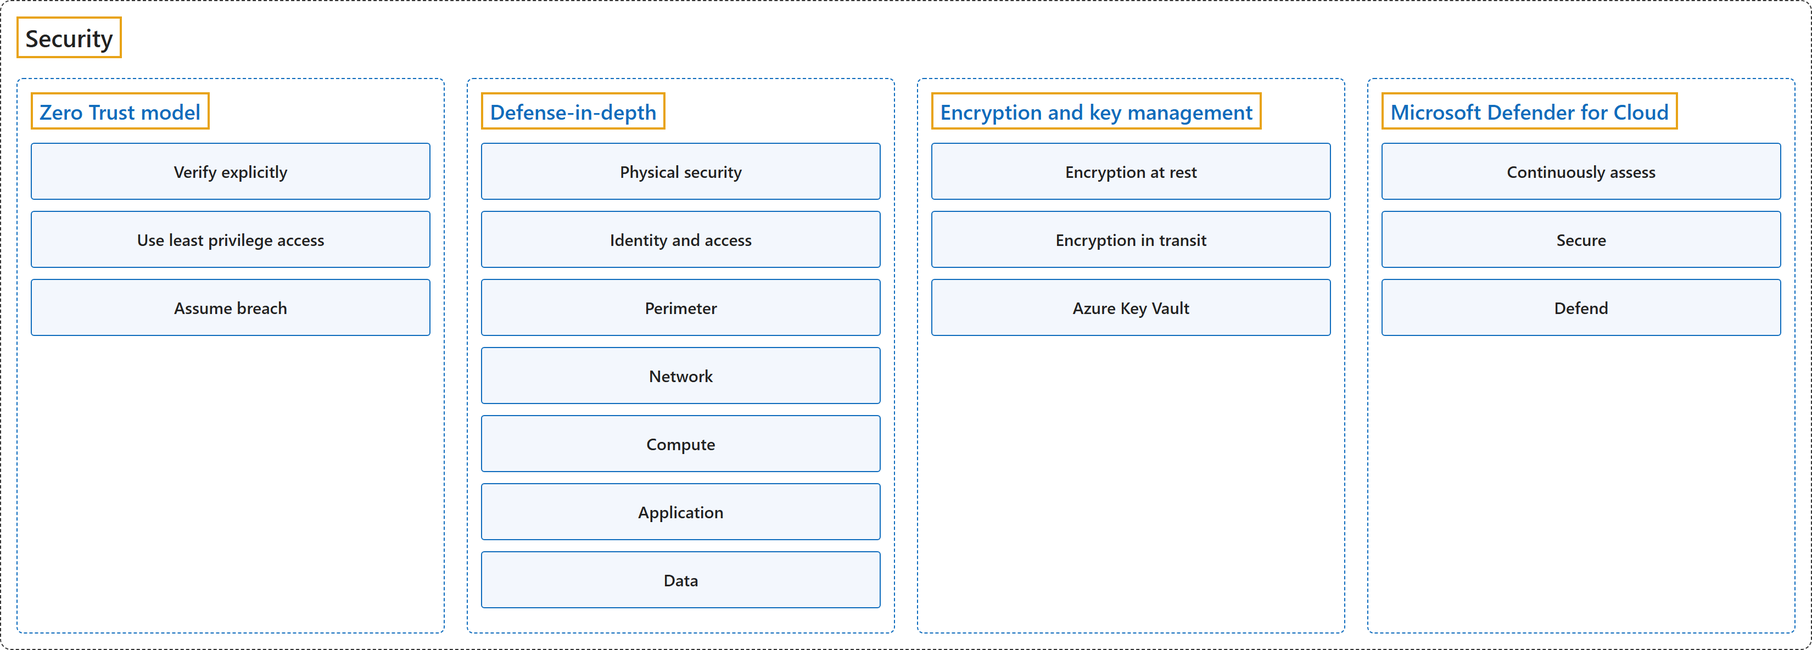
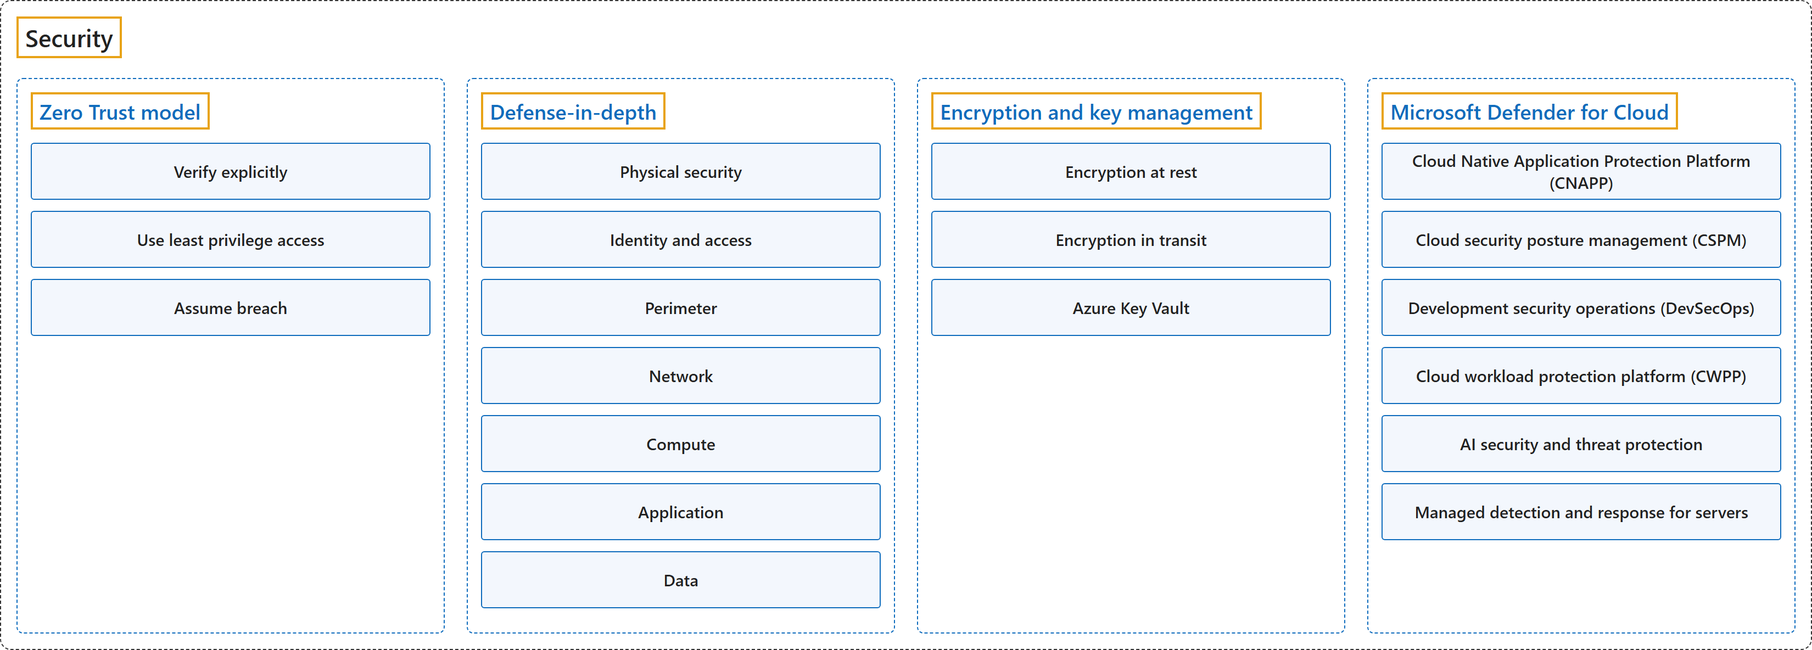
feat(azure): 18.1-18.4 Security; 18.4 follows the Defender for Cloud product overview's six capability areas

diff --git a/figures/cloud/azure/security/microsoft-defender-for-cloud.html b/figures/cloud/azure/security/microsoft-defender-for-cloud.html
@@ -1,0 +1,28 @@
+<!doctype html>
+<html><head><meta charset="utf-8">
+<style>
+  body { margin: 0; background: #fff; font-family: "Segoe UI", sans-serif; }
+  .frame { display: inline-block; margin: 2px; padding: 14px 14px 14px; border: 1.5px dashed #333; border-radius: 10px; }
+  .title { display: inline-block; border: 2px solid #e8a317; padding: 2px 6px; font-size: 22px; font-weight: 600; color: #222; margin-bottom: 18px; }
+  .row { display: flex; gap: 14px; align-items: stretch; }
+  .frame > .col { width: 330px; gap: 0; }
+  .col { display: flex; flex-direction: column; gap: 14px; }
+  .col .group { flex: 1 0 auto; }
+  .group { min-width: 330px; border: 1.5px dashed #0f6cbd; border-radius: 6px; padding: 12px; box-sizing: border-box; }
+  .group .title { white-space: nowrap; color: #0f6cbd; font-size: 19px; margin-bottom: 12px; }
+  .item { border: 2px solid #e8a317; background: #f3f7fd; border-radius: 3px; height: 34px; margin-bottom: 8px;
+          display: flex; align-items: center; justify-content: center; font-size: 14px; font-weight: 600; text-align: center; padding: 0 6px; color: #222; }
+</style></head>
+<body>
+<div class="frame" id="fig">
+  <div class="title">Microsoft Defender for Cloud</div>
+  <div class="col">
+    <div class="item">Cloud Native Application Protection Platform (CNAPP)</div>
+    <div class="item">Cloud security posture management (CSPM)</div>
+    <div class="item">Development security operations (DevSecOps)</div>
+    <div class="item">Cloud workload protection platform (CWPP)</div>
+    <div class="item">AI security and threat protection</div>
+    <div class="item">Managed detection and response for servers</div>
+  </div>
+</div>
+</body></html>

diff --git a/figures/cloud/azure/security/defense-in-depth.html b/figures/cloud/azure/security/defense-in-depth.html
@@ -1,0 +1,29 @@
+<!doctype html>
+<html><head><meta charset="utf-8">
+<style>
+  body { margin: 0; background: #fff; font-family: "Segoe UI", sans-serif; }
+  .frame { display: inline-block; margin: 2px; padding: 14px 14px 14px; border: 1.5px dashed #333; border-radius: 10px; }
+  .title { display: inline-block; border: 2px solid #e8a317; padding: 2px 6px; font-size: 22px; font-weight: 600; color: #222; margin-bottom: 18px; }
+  .row { display: flex; gap: 14px; align-items: stretch; }
+  .frame > .col { width: 330px; gap: 0; }
+  .col { display: flex; flex-direction: column; gap: 14px; }
+  .col .group { flex: 1 0 auto; }
+  .group { min-width: 330px; border: 1.5px dashed #0f6cbd; border-radius: 6px; padding: 12px; box-sizing: border-box; }
+  .group .title { white-space: nowrap; color: #0f6cbd; font-size: 19px; margin-bottom: 12px; }
+  .item { border: 2px solid #e8a317; background: #f3f7fd; border-radius: 3px; height: 34px; margin-bottom: 8px;
+          display: flex; align-items: center; justify-content: center; font-size: 14px; font-weight: 600; text-align: center; padding: 0 6px; color: #222; }
+</style></head>
+<body>
+<div class="frame" id="fig">
+  <div class="title">Defense-in-depth</div>
+  <div class="col">
+    <div class="item">Physical security</div>
+    <div class="item">Identity and access</div>
+    <div class="item">Perimeter</div>
+    <div class="item">Network</div>
+    <div class="item">Compute</div>
+    <div class="item">Application</div>
+    <div class="item">Data</div>
+  </div>
+</div>
+</body></html>

diff --git a/figures/cloud/azure/security/encryption-and-key-management.html b/figures/cloud/azure/security/encryption-and-key-management.html
@@ -1,0 +1,25 @@
+<!doctype html>
+<html><head><meta charset="utf-8">
+<style>
+  body { margin: 0; background: #fff; font-family: "Segoe UI", sans-serif; }
+  .frame { display: inline-block; margin: 2px; padding: 14px 14px 14px; border: 1.5px dashed #333; border-radius: 10px; }
+  .title { display: inline-block; border: 2px solid #e8a317; padding: 2px 6px; font-size: 22px; font-weight: 600; color: #222; margin-bottom: 18px; }
+  .row { display: flex; gap: 14px; align-items: stretch; }
+  .frame > .col { width: 330px; gap: 0; }
+  .col { display: flex; flex-direction: column; gap: 14px; }
+  .col .group { flex: 1 0 auto; }
+  .group { min-width: 330px; border: 1.5px dashed #0f6cbd; border-radius: 6px; padding: 12px; box-sizing: border-box; }
+  .group .title { white-space: nowrap; color: #0f6cbd; font-size: 19px; margin-bottom: 12px; }
+  .item { border: 2px solid #e8a317; background: #f3f7fd; border-radius: 3px; height: 34px; margin-bottom: 8px;
+          display: flex; align-items: center; justify-content: center; font-size: 14px; font-weight: 600; text-align: center; padding: 0 6px; color: #222; }
+</style></head>
+<body>
+<div class="frame" id="fig">
+  <div class="title">Encryption and key management</div>
+  <div class="col">
+    <div class="item">Encryption at rest</div>
+    <div class="item">Encryption in transit</div>
+    <div class="item">Azure Key Vault</div>
+  </div>
+</div>
+</body></html>

diff --git a/figures/cloud/azure/security/zero-trust-model.html b/figures/cloud/azure/security/zero-trust-model.html
@@ -1,0 +1,25 @@
+<!doctype html>
+<html><head><meta charset="utf-8">
+<style>
+  body { margin: 0; background: #fff; font-family: "Segoe UI", sans-serif; }
+  .frame { display: inline-block; margin: 2px; padding: 14px 14px 14px; border: 1.5px dashed #333; border-radius: 10px; }
+  .title { display: inline-block; border: 2px solid #e8a317; padding: 2px 6px; font-size: 22px; font-weight: 600; color: #222; margin-bottom: 18px; }
+  .row { display: flex; gap: 14px; align-items: stretch; }
+  .frame > .col { width: 330px; gap: 0; }
+  .col { display: flex; flex-direction: column; gap: 14px; }
+  .col .group { flex: 1 0 auto; }
+  .group { min-width: 330px; border: 1.5px dashed #0f6cbd; border-radius: 6px; padding: 12px; box-sizing: border-box; }
+  .group .title { white-space: nowrap; color: #0f6cbd; font-size: 19px; margin-bottom: 12px; }
+  .item { border: 2px solid #e8a317; background: #f3f7fd; border-radius: 3px; height: 34px; margin-bottom: 8px;
+          display: flex; align-items: center; justify-content: center; font-size: 14px; font-weight: 600; text-align: center; padding: 0 6px; color: #222; }
+</style></head>
+<body>
+<div class="frame" id="fig">
+  <div class="title">Zero Trust model</div>
+  <div class="col">
+    <div class="item">Verify explicitly</div>
+    <div class="item">Use least privilege access</div>
+    <div class="item">Assume breach</div>
+  </div>
+</div>
+</body></html>

diff --git a/figures/cloud/azure/security/security.html b/figures/cloud/azure/security/security.html
@@ -48,9 +48,12 @@
     <div class="col">
       <div class="group">
         <div class="title">Microsoft Defender for Cloud</div>
-        <div class="item">Continuously assess</div>
-        <div class="item">Secure</div>
-        <div class="item">Defend</div>
+        <div class="item">Cloud Native Application Protection Platform (CNAPP)</div>
+        <div class="item">Cloud security posture management (CSPM)</div>
+        <div class="item">Development security operations (DevSecOps)</div>
+        <div class="item">Cloud workload protection platform (CWPP)</div>
+        <div class="item">AI security and threat protection</div>
+        <div class="item">Managed detection and response for servers</div>
       </div>
     </div>
   </div>

diff --git a/docs/cloud/azure/security/microsoft-defender-for-cloud.md b/docs/cloud/azure/security/microsoft-defender-for-cloud.md
@@ -1,11 +1,26 @@
 ---
 title: "18.4 Microsoft Defender for Cloud"
-description: "Microsoft Azure, 18.4 Microsoft Defender for Cloud: Continuously assess, Secure, Defend."
-ms.date: 2026-10-24
+description: "Microsoft Azure, 18.4 Microsoft Defender for Cloud: Cloud Native Application Protection Platform (CNAPP), Cloud security posture management (CSPM), Development security operations (DevSecOps), Cloud workload protection platform (CWPP), AI security and threat protection, Managed detection and response for servers."
+ms.date: 2026-10-27
 ---
 
 # 18.4 Microsoft Defender for Cloud
 
-Sources: [AZ-900 unit: Describe Microsoft Defender for Cloud](https://learn.microsoft.com/en-us/training/modules/describe-azure-identity-access-security/9-describe-microsoft-defender-for-cloud).
+## Classification
 
-Not written yet.
+![Microsoft Defender for Cloud, its six capability areas in the order of its product overview: Cloud Native Application Protection Platform (CNAPP), Cloud security posture management (CSPM), Development security operations (DevSecOps), Cloud workload protection platform (CWPP), AI security and threat protection, Managed detection and response for servers.](media/microsoft-defender-for-cloud.png)
+
+## Glossary
+
+| Term | Definition | 中文翻译 | Source |
+|---|---|---|---|
+| **Cloud Native Application Protection Platform (CNAPP)**<br>云原生应用程序保护平台 (CNAPP) | "Microsoft Defender for Cloud is a Cloud Native Application Protection Platform (CNAPP), which is a **unified solution** that **combines multiple cloud security tools** to **protect applications across their entire lifecycle**." | Microsoft Defender for Cloud 是一个云原生应用程序保护平台 (CNAPP)，这是一种**统一的解决方案**，它**结合多种云安全工具**，**在应用程序的整个生命周期中保护应用程序**。 | [Microsoft, 2026, para. 1](https://learn.microsoft.com/en-us/azure/defender-for-cloud/defender-for-cloud-introduction#:~:text=which%20is%20a%20unified%20solution%20that%20combines%20multiple%20cloud%20security%20tools) |
+| **Cloud security posture management (CSPM)**<br>云安全态势管理 (CSPM) | (context) "The security of your cloud and on-premises resources **depends on proper configuration and deployment**. Defender for Cloud recommendations help you **secure your environment**." | （语境）云资源和本地资源的安全性**取决于正确的配置和部署**。Defender for Cloud 的建议帮助你**保护你的环境**。 | [Microsoft, 2026, "Cloud security posture management (CSPM)" section, para. 1](https://learn.microsoft.com/en-us/azure/defender-for-cloud/defender-for-cloud-introduction#:~:text=depends%20on%20proper%20configuration%20and%20deployment) |
+| **Development security operations (DevSecOps)**<br>开发安全运营 (DevSecOps) | (context) "Defender for Cloud **adds security to the start of development**. It helps you **secure code pipelines and environments**, and **monitor your security posture from one place**." | （语境）Defender for Cloud **把安全性加到开发的起点**。它帮助你**保护代码管道和环境**，并**在一个位置监视安全状况**。 | [Microsoft, 2026, "Development security operations (DevSecOps)" section, para. 1](https://learn.microsoft.com/en-us/azure/defender-for-cloud/defender-for-cloud-introduction#:~:text=adds%20security%20to%20the%20start%20of%20development) |
+| **Cloud workload protection platform (CWPP)**<br>云工作负载保护平台 (CWPP) | "Cloud workload protection platforms (CWPP) provide **workload-specific recommendations** to guide you to **the right security controls to protect your workloads**." | 云工作负载保护平台 (CWPP) 提供**针对特定工作负载的建议**，引导你找到**保护工作负载的正确安全控制措施**。 | [Microsoft, 2026, "Cloud workload protection platform (CWPP)" section, para. 1](https://learn.microsoft.com/en-us/azure/defender-for-cloud/defender-for-cloud-introduction#:~:text=provide%20workload-specific%20recommendations) |
+| **AI security and threat protection**<br>AI 安全和威胁防护 | (context) "Microsoft Defender for Cloud provides **AI security posture management and AI threat protection** to help you **secure your generative AI workloads across their entire lifecycle**." | （语境）Microsoft Defender for Cloud 提供 **AI 安全态势管理和 AI 威胁防护**，帮助你**在整个生命周期中保护生成式 AI 工作负载**。 | [Microsoft, 2026, "AI security and threat protection" section, para. 1](https://learn.microsoft.com/en-us/azure/defender-for-cloud/defender-for-cloud-introduction#:~:text=provides%20AI%20security%20posture%20management%20and%20AI%20threat%20protection) |
+| **Managed detection and response for servers**<br>服务器托管检测和响应 | "Microsoft Defender Experts for Servers is a **managed detection and response service** that **adds Microsoft analyst expertise** to your Defender for Servers deployment." | Microsoft Defender Experts for Servers 是一种**托管检测和响应服务**，它为你的 Defender for Servers 部署**增加 Microsoft 分析师的专业知识**。 | [Microsoft, 2026, "Managed detection and response for servers" section, para. 1](https://learn.microsoft.com/en-us/azure/defender-for-cloud/defender-for-cloud-introduction#:~:text=is%20a%20managed%20detection%20and%20response%20service) |
+
+## References
+
+- Microsoft. (2026, August 10). *What is Microsoft Defender for Cloud?* Microsoft Learn. https://learn.microsoft.com/en-us/azure/defender-for-cloud/defender-for-cloud-introduction

diff --git a/docs/cloud/azure/security/defense-in-depth.md b/docs/cloud/azure/security/defense-in-depth.md
@@ -1,11 +1,27 @@
 ---
 title: "18.2 Defense-in-depth"
 description: "Microsoft Azure, 18.2 Defense-in-depth: Physical security, Identity and access, Perimeter, Network, Compute, Application, Data."
-ms.date: 2026-10-24
+ms.date: 2026-10-27
 ---
 
 # 18.2 Defense-in-depth
 
-Sources: [AZ-900 unit: Describe defense-in-depth](https://learn.microsoft.com/en-us/training/modules/describe-azure-identity-access-security/8-describe-defense-depth).
+## Classification
 
-Not written yet.
+![Defense-in-depth, 7 terms: Physical security, Identity and access, Perimeter, Network, Compute, Application, Data.](media/defense-in-depth.png)
+
+## Glossary
+
+| Term | Definition | 中文翻译 | Source |
+|---|---|---|---|
+| **Physical security**<br>物理安全 | "The physical security layer is the **first line of defense** to **protect computing hardware in the datacenter**." | 物理安全层是**第一道防线**，用于**保护数据中心中的计算硬件**。 | [Microsoft, n.d., "Layers of defense-in-depth" section, list item 1](https://learn.microsoft.com/en-us/training/modules/describe-azure-identity-access-security/8-describe-defense-depth#:~:text=The%20physical%20security%20layer%20is%20the%20first%20line%20of%20defense) |
+| **Identity and access**<br>身份和访问 | "The identity and access layer **controls access to infrastructure and change control**." | 身份和访问层**控制对基础结构的访问以及变更控制**。 | [Microsoft, n.d., "Layers of defense-in-depth" section, list item 2](https://learn.microsoft.com/en-us/training/modules/describe-azure-identity-access-security/8-describe-defense-depth#:~:text=The%20identity%20and%20access%20layer%20controls%20access) |
+| **Perimeter**<br>外围 | "The perimeter layer uses **distributed denial of service (DDoS) protection** to **filter large-scale attacks** before they can cause a denial of service for users." | 外围层使用**分布式拒绝服务 (DDoS) 防护**，**过滤大规模攻击**，赶在它们对用户造成拒绝服务之前。 | [Microsoft, n.d., "Layers of defense-in-depth" section, list item 3](https://learn.microsoft.com/en-us/training/modules/describe-azure-identity-access-security/8-describe-defense-depth#:~:text=The%20perimeter%20layer%20uses%20distributed%20denial%20of%20service) |
+| **Network**<br>网络 | "The network layer **limits communication between resources** through **segmentation and access controls**." | 网络层**限制资源之间的通信**，手段是**分段和访问控制**。 | [Microsoft, n.d., "Layers of defense-in-depth" section, list item 4](https://learn.microsoft.com/en-us/training/modules/describe-azure-identity-access-security/8-describe-defense-depth#:~:text=The%20network%20layer%20limits%20communication%20between%20resources) |
+| **Compute**<br>计算 | "The compute layer **secures access to virtual machines**." | 计算层**保护对虚拟机的访问**。 | [Microsoft, n.d., "Layers of defense-in-depth" section, list item 5](https://learn.microsoft.com/en-us/training/modules/describe-azure-identity-access-security/8-describe-defense-depth#:~:text=The%20compute%20layer%20secures%20access%20to%20virtual%20machines) |
+| **Application**<br>应用程序 | "The application layer helps ensure that applications are **secure and free of security vulnerabilities**." | 应用程序层帮助确保应用程序**安全且没有安全漏洞**。 | [Microsoft, n.d., "Layers of defense-in-depth" section, list item 6](https://learn.microsoft.com/en-us/training/modules/describe-azure-identity-access-security/8-describe-defense-depth#:~:text=The%20application%20layer%20helps%20ensure%20that%20applications%20are%20secure) |
+| **Data**<br>数据 | "The data layer **controls access to operational and customer data** that you need to protect." | 数据层**控制对需要保护的运营数据和客户数据的访问**。 | [Microsoft, n.d., "Layers of defense-in-depth" section, list item 7](https://learn.microsoft.com/en-us/training/modules/describe-azure-identity-access-security/8-describe-defense-depth#:~:text=The%20data%20layer%20controls%20access%20to%20operational%20and%20customer%20data) |
+
+## References
+
+- Microsoft. (n.d.). *Describe defense-in-depth* [Training module unit]. Microsoft Learn. Retrieved October 27, 2026, from https://learn.microsoft.com/en-us/training/modules/describe-azure-identity-access-security/8-describe-defense-depth

diff --git a/docs/cloud/azure/security/README.md b/docs/cloud/azure/security/README.md
@@ -6,9 +6,11 @@ Follows `../README.md`. Figure on `index.md`: classification (see `../README.md`
 
 | No. | File | Title (group name in the figure) | Sources | Allowed sections (the groups of the sub-page figure, in figure order) |
 |---|---|---|---|---|
-| 18.1 | `zero-trust-model.md` | Zero Trust model | [AZ-900 unit: Describe Zero Trust model](https://learn.microsoft.com/en-us/training/modules/describe-azure-identity-access-security/7-describe-zero-trust-model) | 18.1.1 Verify explicitly, 18.1.2 Use least privilege access, 18.1.3 Assume breach |
+| 18.1 | `zero-trust-model.md` | Zero Trust model | [What is Zero Trust?](https://learn.microsoft.com/en-us/security/zero-trust/zero-trust-overview) | 18.1.1 Verify explicitly, 18.1.2 Use least privilege access, 18.1.3 Assume breach |
 | 18.2 | `defense-in-depth.md` | Defense-in-depth | [AZ-900 unit: Describe defense-in-depth](https://learn.microsoft.com/en-us/training/modules/describe-azure-identity-access-security/8-describe-defense-depth) | 18.2.1 Physical security, 18.2.2 Identity and access, 18.2.3 Perimeter, 18.2.4 Network, 18.2.5 Compute, 18.2.6 Application, 18.2.7 Data |
-| 18.3 | `encryption-and-key-management.md` | Encryption and key management | [AZ-900 unit: Describe encryption and key management in Azure](https://learn.microsoft.com/en-us/training/modules/describe-azure-identity-access-security/9a-describe-encryption-key-management) | 18.3.1 Encryption at rest, 18.3.2 Encryption in transit, 18.3.3 Azure Key Vault |
-| 18.4 | `microsoft-defender-for-cloud.md` | Microsoft Defender for Cloud | [AZ-900 unit: Describe Microsoft Defender for Cloud](https://learn.microsoft.com/en-us/training/modules/describe-azure-identity-access-security/9-describe-microsoft-defender-for-cloud) | 18.4.1 Continuously assess, 18.4.2 Secure, 18.4.3 Defend |
+| 18.3 | `encryption-and-key-management.md` | Encryption and key management | [Azure data encryption at rest](https://learn.microsoft.com/en-us/azure/security/fundamentals/encryption-atrest); [Azure encryption overview](https://learn.microsoft.com/en-us/azure/security/fundamentals/encryption-overview); [About Azure Key Vault](https://learn.microsoft.com/en-us/azure/key-vault/general/overview) | 18.3.1 Encryption at rest, 18.3.2 Encryption in transit, 18.3.3 Azure Key Vault |
+| 18.4 | `microsoft-defender-for-cloud.md` | Microsoft Defender for Cloud | [What is Microsoft Defender for Cloud?](https://learn.microsoft.com/en-us/azure/defender-for-cloud/defender-for-cloud-introduction) | 18.4.1 Cloud Native Application Protection Platform (CNAPP), 18.4.2 Cloud security posture management (CSPM), 18.4.3 Development security operations (DevSecOps), 18.4.4 Cloud workload protection platform (CWPP), 18.4.5 AI security and threat protection, 18.4.6 Managed detection and response for servers |
 
-Network security services (Azure Firewall, Web Application Firewall, DDoS Protection) are defined in `../networking/` (7.4); 18.2.3 Perimeter and 18.2.4 Network link there. Microsoft Sentinel (taught in the CST8913 CAF reading) is H3 inside 18.4.3 Defend, beside Defender for Cloud, as AZ-500 pairs them. Identity and access is 12. Identity.
+Network security services (Azure Firewall, Web Application Firewall, DDoS Protection) are defined in `../networking/` (7.4); 18.2.3 Perimeter and 18.2.4 Network link there. Identity and access is 12. Identity.
+
+Zero Trust and encryption rows quote the product documentation. The seven defense-in-depth layers are named only in the AZ-900 unit, so 18.2 quotes that unit. 18.4 follows the six capability areas of the Defender for Cloud product overview, not the AZ-900 pillars (2026-10-27).

diff --git a/docs/cloud/azure/security/encryption-and-key-management.md b/docs/cloud/azure/security/encryption-and-key-management.md
@@ -1,11 +1,25 @@
 ---
 title: "18.3 Encryption and key management"
 description: "Microsoft Azure, 18.3 Encryption and key management: Encryption at rest, Encryption in transit, Azure Key Vault."
-ms.date: 2026-10-24
+ms.date: 2026-10-27
 ---
 
 # 18.3 Encryption and key management
 
-Sources: [AZ-900 unit: Describe encryption and key management in Azure](https://learn.microsoft.com/en-us/training/modules/describe-azure-identity-access-security/9a-describe-encryption-key-management).
+## Classification
 
-Not written yet.
+![Encryption and key management, 3 terms: Encryption at rest, Encryption in transit, Azure Key Vault.](media/encryption-and-key-management.png)
+
+## Glossary
+
+| Term | Definition | 中文翻译 | Source |
+|---|---|---|---|
+| **Encryption at rest**<br>静态加密 | (context) "Encryption at rest is a **common security requirement**. Azure **encrypts data at rest by default** by using **platform-managed keys**." | （语境）静态加密是一项**常见的安全要求**。Azure **默认对静态数据进行加密**，使用的是**平台管理的密钥**。 | [Microsoft, 2026b, para. 2](https://learn.microsoft.com/en-us/azure/security/fundamentals/encryption-atrest#:~:text=Encryption%20at%20rest%20is%20a%20common%20security%20requirement) |
+| **Encryption in transit**<br>传输中加密 | (context) "Azure provides many mechanisms to help **keep data private** as it **moves from one location to another**." | （语境）Azure 提供许多机制，帮助**保持数据私密**，在数据**从一个位置移动到另一个位置**时。 | [Microsoft, 2026c, "Encryption in transit" section, para. 1](https://learn.microsoft.com/en-us/azure/security/fundamentals/encryption-overview#:~:text=Azure%20provides%20many%20mechanisms%20to%20help%20keep%20data%20private) |
+| **Azure Key Vault**<br>Azure 密钥保管库 | "**Secrets Management** - Azure Key Vault can be used to **Securely store and tightly control access** to **tokens, passwords, certificates, API keys, and other secrets**" | **机密管理**：Azure 密钥保管库可用于**安全地存储和严格控制访问**，对象是**令牌、密码、证书、API 密钥和其他机密**。 | [Microsoft, 2026a, para. 1, list item 1](https://learn.microsoft.com/en-us/azure/key-vault/general/overview#:~:text=Azure%20Key%20Vault%20can%20be%20used%20to%20Securely%20store) |
+
+## References
+
+- Microsoft. (2026b, July 21). *Azure data encryption at rest*. Microsoft Learn. https://learn.microsoft.com/en-us/azure/security/fundamentals/encryption-atrest
+- Microsoft. (2026c, September 18). *Azure encryption overview*. Microsoft Learn. https://learn.microsoft.com/en-us/azure/security/fundamentals/encryption-overview
+- Microsoft. (2026a, September 22). *About Azure Key Vault*. Microsoft Learn. https://learn.microsoft.com/en-us/azure/key-vault/general/overview

diff --git a/docs/cloud/azure/security/zero-trust-model.md b/docs/cloud/azure/security/zero-trust-model.md
@@ -1,11 +1,23 @@
 ---
 title: "18.1 Zero Trust model"
 description: "Microsoft Azure, 18.1 Zero Trust model: Verify explicitly, Use least privilege access, Assume breach."
-ms.date: 2026-10-24
+ms.date: 2026-10-27
 ---
 
 # 18.1 Zero Trust model
 
-Sources: [AZ-900 unit: Describe Zero Trust model](https://learn.microsoft.com/en-us/training/modules/describe-azure-identity-access-security/7-describe-zero-trust-model).
+## Classification
 
-Not written yet.
+![Zero Trust model, 3 terms: Verify explicitly, Use least privilege access, Assume breach.](media/zero-trust-model.png)
+
+## Glossary
+
+| Term | Definition | 中文翻译 | Source |
+|---|---|---|---|
+| **Verify explicitly**<br>显式验证 | "**Every access request** is **authenticated and authorized** using **all available signals**." | **每个访问请求**都要**经过身份验证和授权**，依据的是**所有可用信号**。 | [Microsoft, 2026, "Zero Trust principles" section, table row 1](https://learn.microsoft.com/en-us/security/zero-trust/zero-trust-overview#:~:text=Every%20access%20request%20is%20authenticated%20and%20authorized) |
+| **Use least privilege access**<br>使用最低权限访问 | "User and workloads get **only the access they need**, for the **shortest time required**." | 用户和工作负载**只获得所需的访问权限**，并且只在**所需的最短时间内**拥有。 | [Microsoft, 2026, "Zero Trust principles" section, table row 2](https://learn.microsoft.com/en-us/security/zero-trust/zero-trust-overview#:~:text=get%20only%20the%20access%20they%20need) |
+| **Assume breach**<br>假定已遭入侵 | "Security controls are designed with the expectation that **attackers might be operating inside the environment**. Controls focus on **limiting breach impact**, and enabling **rapid threat detection and response**." | 安全控制的设计前提是**攻击者可能已在环境内部活动**。控制措施侧重于**限制入侵的影响**，并实现**快速的威胁检测和响应**。 | [Microsoft, 2026, "Zero Trust principles" section, table row 3](https://learn.microsoft.com/en-us/security/zero-trust/zero-trust-overview#:~:text=attackers%20might%20be%20operating%20inside%20the%20environment) |
+
+## References
+
+- Microsoft. (2026, May 31). *What is Zero Trust?* Microsoft Learn. https://learn.microsoft.com/en-us/security/zero-trust/zero-trust-overview
